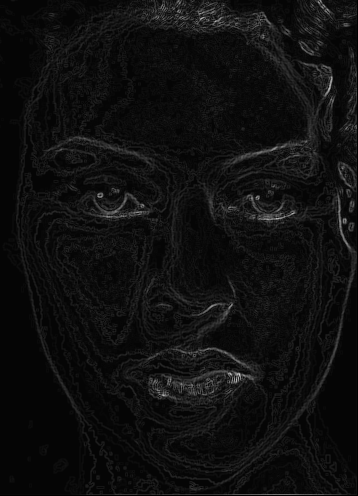
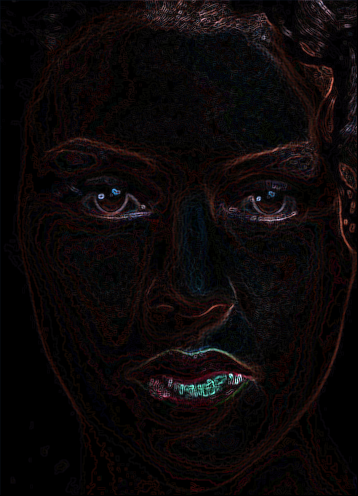
sobel

diff --git a/Q3/main.py b/Q3/main.py
@@ -30,15 +30,16 @@ def media(img):
             mediaG = 0
             mediaB = 0
 
-            for k in range(k, m, 1):
-                for l in range(l, n, 1):
+            for k in range(k, m+1, 1):
+                for l in range(l, n+1, 1):
                     if (k+i < 0 or k+i > h-1) or (l+j < 0 or l+j > w-1):
+                        #soma 0
                         pass
                     else:
                         #print(k, j)
-                        mediaR += img[i+k, j+l, 0]*mascara_media[k, l]
-                        mediaG += img[i+k, j+l, 1]*mascara_media[k, l]
-                        mediaB += img[i+k, j+l, 2]*mascara_media[k, l]
+                        mediaR += img[i+k, j+l, 0]*mascara_media[k+m, l+n]
+                        mediaG += img[i+k, j+l, 1]*mascara_media[k+m, l+n]
+                        mediaB += img[i+k, j+l, 2]*mascara_media[k+m, l+n]
                 l = -n
             k = -m
 
@@ -55,13 +56,13 @@ def media(img):
 def sobel(img):
     h, w, c = img.shape
     dfiR = dfiG = dfiB = dfjR = dfjG = dfjB = 0
-    offset = 25
+    offset = 0
     pivo = [0, 0]
     i = pivo[0]
     j = pivo[1]
-    k = l = 0
+    m = 3//2
+    k = l = -m
     x = y = 0
-    m = 3
 
     vertical = np.array([[-1, -2, -1],
                     [0, 0, 0],
@@ -71,28 +72,33 @@ def sobel(img):
                     [-2, 0, 2],
                     [-1, 0, 1]])
 
+    resultado_final_horizontal = np.zeros(img.shape, dtype='uint16')
+    resultado_final_vertical = np.zeros(img.shape, dtype='uint16')
     resultado_final = np.zeros(img.shape, dtype='uint16')
 
     for i in range(i, h-1, 1):
         for j in range(j, w-1, 1):
            
-            for k in range(k, m, 1):
-                for l in range(l, m, 1):
+            for k in range(k, m+1, 1):
+                for l in range(l, m+1, 1):
                     if (k+i < 0 or k+i > h-1) or (l+j < 0 or l+j > w-1):
+                        #soma 0
                         pass
                     else:
-                        dfiR = np.add(dfiR, np.multiply(img[i+k, j+l, 0],vertical[k, l]))
-                        dfiG = np.add(dfiG, np.multiply(img[i+k, j+l, 1],vertical[k, l]))
-                        dfiB = np.add(dfiB, np.multiply(img[i+k, j+l, 2],vertical[k, l]))
-                        dfjR = np.add(dfjR, np.multiply(img[i+k, j+l, 0],horizontal[k, l]))
-                        dfjG = np.add(dfjG, np.multiply(img[i+k, j+l, 1],horizontal[k, l]))
-                        dfjB = np.add(dfjB, np.multiply(img[i+k, j+l, 2],horizontal[k, l]))
-                l = 0 
-            k = 0
+                        dfiR = np.add(dfiR, np.multiply(img[i+k, j+l, 0],vertical[k+m, l+m]))
+                        dfiG = np.add(dfiG, np.multiply(img[i+k, j+l, 1],vertical[k+m, l+m]))
+                        dfiB = np.add(dfiB, np.multiply(img[i+k, j+l, 2],vertical[k+m, l+m]))
+                        dfjR = np.add(dfjR, np.multiply(img[i+k, j+l, 0],horizontal[k+m, l+m]))
+                        dfjG = np.add(dfjG, np.multiply(img[i+k, j+l, 1],horizontal[k+m, l+m]))
+                        dfjB = np.add(dfjB, np.multiply(img[i+k, j+l, 2],horizontal[k+m, l+m]))
+                l = -m
+            k = -m
+            resultado_final_horizontal[i, j] = [np.absolute(dfiR), np.absolute(dfiG), np.absolute(dfiB)]
+            resultado_final_vertical[i, j] = [np.absolute(dfjR), np.absolute(dfjG), np.absolute(dfjB)]
             somaR = np.absolute(dfiR) + np.absolute(dfjR)
             somaG = np.absolute(dfiG) + np.absolute(dfjG)
             somaB = np.absolute(dfiB) + np.absolute(dfjB)
-            resultado_final[i, j] = [somaR + offset, somaG + offset, somaB + offset]
+            resultado_final[i, j] = [somaR, somaG, somaB]
             dfiR = 0
             dfiG = 0
             dfiB = 0
@@ -108,35 +114,53 @@ def sobel(img):
 
     img_resultante_sobel.save("sosobel.png")
     
-    resultado_histograma = histograma(resultado_final, img.shape)
+    resultado_histograma_vertical = histograma(resultado_final_vertical, img.shape, offset)
+    resultado_histograma_horizontal = histograma(resultado_final_horizontal, img.shape, offset)
+    resultado_histograma = histograma(resultado_final, img.shape, offset)
+
+    img_resultante_vertical = Image.fromarray(resultado_final_vertical.astype(np.uint8))
+    img_resultante_horizontal = Image.fromarray(resultado_final_horizontal.astype(np.uint8))
+
+    img_resultante_vertical.save("sobel_vertical.png")
+    img_resultante_horizontal.save("sobel_horizontal.png")
 
     return resultado_histograma
 
-def histograma(sob, img_shape):
+def histograma(sob, img_shape, offset):
+    sobR, sobG, sobB = np.split(sob, 3, axis=2)
     h, w, c = img_shape
     i = j = 0
-    maior = np.amax(sob)
-    menor = np.amin(sob)
-    resultado = np.zeros(img_shape, dtype='uint8') 
+    maiorR = np.amax(sobR)
+    maiorG = np.amax(sobG)
+    maiorB = np.amax(sobB)
+    menorR = np.amin(sobR)
+    menorG = np.amin(sobG)
+    menorB = np.amin(sobB)
+    #maior = np.amax(sob)
+    #menor = np.amin(sob)
 
-    #print(maior, menor)
+    resultado = np.zeros([h, w, c], dtype='uint8') 
+
+    #print(maiorR, maiorG, maiorB, menorR, menorG, menorB)
 
     for i in range(i, h-1, 1):
         for j in range(j, w-1, 1):
-            tr = np.round_(np.multiply(np.divide(np.subtract(sob[i, j, 0], menor), maior - menor), 254))
-            resultado[i, j] = tr
+            trR = np.round_(np.multiply(np.divide(sob[i, j, 0] - menorR, maiorR - menorR), 254))
+            trG = np.round_(np.multiply(np.divide(sob[i, j, 1] - menorG, maiorG - menorG), 254))
+            trB = np.round_(np.multiply(np.divide(sob[i, j, 2] - menorB, maiorB - menorB), 254))
+            resultado[i, j] = [trR + offset, trG + offset, trB + offset]
         j = 0
     #print(resultado)
 
     return resultado
 
-img_resultante_media = media(a)
+#img_resultante_media = media(a)
 img_resultante_sobel = sobel(a)
 
-img_resultante_rgb = Image.fromarray(img_resultante_media.astype(np.uint8))
+#img_resultante_rgb = Image.fromarray(img_resultante_media.astype(np.uint8))
 img_resultante_rgb2 = Image.fromarray(img_resultante_sobel.astype(np.uint8))
 
-img_resultante_rgb.save("media.png")
+#img_resultante_rgb.save("media.png")
 img_resultante_rgb2.save("sobel.png")
 
 
